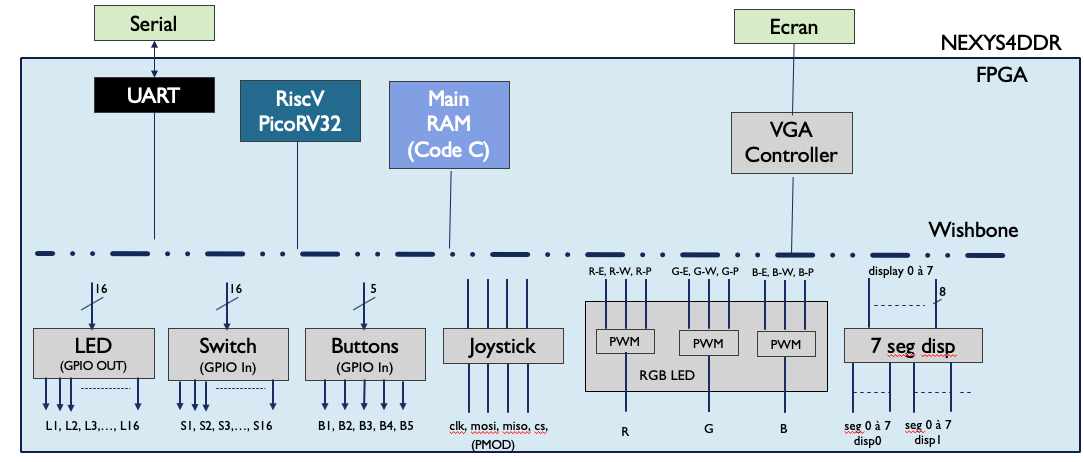
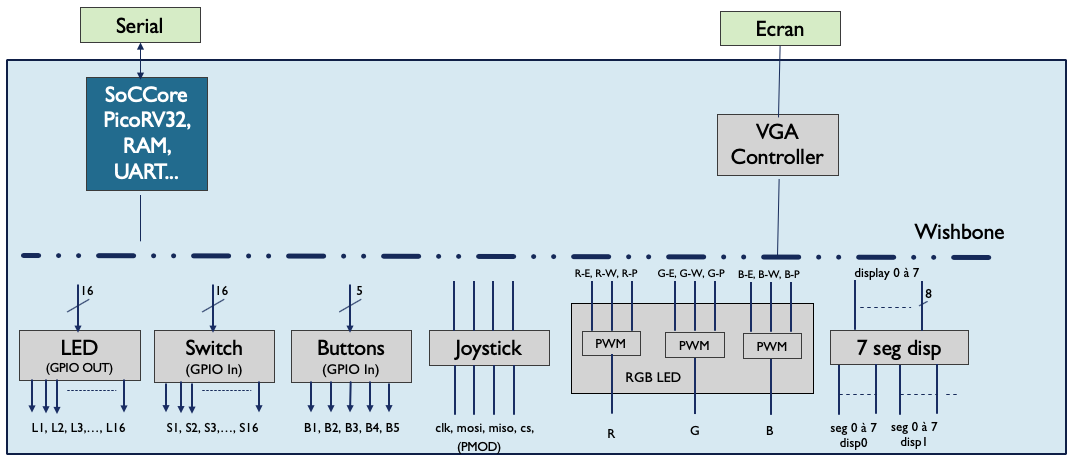
syl

diff --git a/Rapport/06_Modules.md b/Rapport/06_Modules.md
@@ -1,4 +1,318 @@
-# Description des modules
+# Description des modules:
+
+Voici ci-dessous l'architecture que nous souhaitons implémenter sur notre FPGA. Pour cela nous devons décrire l'ensemble des modules correspondant aux blocs de ce schéma:
+
+
 
 ![Architecture](./Images/Architecture.png)
+
+
+
+### SoCCore:
+
+Le module SoCCore tel que initialement proposé par Litex ressemble à ceci:
+
+
+
+![SoCCore](./Images/SoCCore.png)
+
+Après avoir installé Litex, le fichier décrivant ce module est disponible ici: "./litex/soc/integration/soc_core.py"
+
+Lors de la génération du build, nous l'instancierons en précisants les paramètres souhaités notamment le CPU de type PicoRV32. Nous verrons cela à l'étape suivante.
+
+
+
+### GPIOs (LEDs, switchs, buttons):
+
+Pour interfacer les entrées/sorties basiques tels que les LEDs simples, les switchs et les bouttons, nous utilisons des modules GPIO disponibles dans la bibliothèque de Litex: "./litex/soc/cores/gpio.py":
+
+```python
+# GPIO Input -------------------------------------------------------------------------------
+
+class GPIOIn(Module, AutoCSR):
+    def __init__(self, signal):
+        self._in = CSRStatus(len(signal))
+        self.specials += MultiReg(signal, self._in.status)
+
+# GPIO Output ------------------------------------------------------------------------------
+
+class GPIOOut(Module, AutoCSR):
+    def __init__(self, signal):
+        self._out = CSRStorage(len(signal))
+        self.comb += signal.eq(self._out.storage)
+```
+
+
+
+### LEDs RGB:
+
+La commande des LEDs RGB est constituée de trois canaux (rouge, le vert et le bleu). Nous avons donc créé un module regroupant ces trois canaux. 
+
+![RGBLed](./Images/RGBLed.png)
+
+Afin de pouvoir moduler individuellement chacun des canaux, nous avons utilisé le module PWM de Litex: "./litex/soc/cores/pwm.py"
+
+Le module se pilote via ses trois entrées Enable, Width et Period
+
+Voici notre module faisant appel aux PWM: "./module/rgbled.py"
+
+```python
+from migen import *
+from migen.genlib.cdc import MultiReg
+from litex.soc.interconnect.csr import *
+from litex.soc.cores import pwm
+
+# RGB LED ---------------------------------------------------------------------------
+class RGBLed(Module, AutoCSR):
+    def __init__(self, pads):
+        self.submodules.r = pwm.PWM(pads.r)
+        self.submodules.g = pwm.PWM(pads.g)
+        self.submodules.b = pwm.PWM(pads.b)
+```
+
+
+
+### 7 segments:
+
+Ce module permet d'interagir avec les 8 pavés de 7 segments de la NEXYS4DDR. Litex ne proposant aucune definition pour ce type de module, nous l'avons donc réalisé de la façon suivante:
+
+
+
+![7segments](./Images/7segments.png)
+
+Ce schéma fonctionnel est décrit via les fonctions de Migen, en particulier par l'usage de self.sync pour synchroniser sur les coups d'horloge de 100Mhz et de self.comb qui permet de définir les liaisons combinatoires.
+
+Ce module est disponible ici:"./module/sevensegment.py"
+
+```python
+from migen import *
+from migen.genlib.cdc import MultiReg
+
+from litex.soc.interconnect.csr import *
+
+# Seven Segment ---------------------------------------------------------------------------
+
+class SevenSegment(Module, AutoCSR):
+    def __init__(self, segment_out, digit_out):
+        
+        nb_dig = len(digit_out)
+        dgt_count = Signal(max = nb_dig)
+    
+        refresh_period = 16*10**(-3)  # refresh of 16ms (from datasheet)
+        digit_period = refresh_period/nb_dig # period for 1 digit
+        
+        dgt_tick = Signal()
+        dgt_tick_count = Signal(max = int(digit_period*100e6))
+        
+        self.displays = Array(Signal(len(segment_out)) for i in range(nb_dig))
+        
+    # CSR -----------------------------------------------------------------------------
+    
+        self._dig_0 = CSRStorage(8)
+        self._dig_1 = CSRStorage(8)
+        self._dig_2 = CSRStorage(8)
+        self._dig_3 = CSRStorage(8)
+        self._dig_4 = CSRStorage(8)
+        self._dig_5 = CSRStorage(8)
+        self._dig_6 = CSRStorage(8)
+        self._dig_7 = CSRStorage(8)
+        
+        self.comb += [
+            self.displays[0].eq(self._dig_0.storage),
+            self.displays[1].eq(self._dig_1.storage),
+            self.displays[2].eq(self._dig_2.storage),
+            self.displays[3].eq(self._dig_3.storage),
+            self.displays[4].eq(self._dig_4.storage),
+            self.displays[5].eq(self._dig_5.storage),
+            self.displays[6].eq(self._dig_6.storage),
+            self.displays[7].eq(self._dig_7.storage)
+        ]
+    
+        # # #
+        
+        self.sync += [
+            # Digit tick counter
+            If(dgt_tick_count >= int(digit_period*100e6-1),
+                dgt_tick_count.eq(0),
+                dgt_tick.eq(1)
+            ).Else(
+                dgt_tick_count.eq(dgt_tick_count + 1),
+                dgt_tick.eq(0)
+            ),
+            # Digit counter
+        If(dgt_tick,
+            If(dgt_count >= nb_dig-1,
+            dgt_count.eq(0)
+        ).Else(
+            dgt_count.eq(dgt_count + 1)
+        )
+        )
+        ]
+        
+        self.comb += [
+        # digit_out
+            digit_out.eq(~(1<<dgt_count)),
+            # segment_out
+        segment_out.eq(~self.displays[dgt_count])
+        ]
+
+```
+
+
+
+### Joystick:
+
+Le joystick est raccorder à une interface SPI. Sa documentation est disponible ici: PmodJSTK2 Manual: https://reference.digilentinc.com/_media/reference/pmod/pmodjstk2/pmodjstk2_rm.pdf
+
+Etant donné que nous utilisons un processeur, il n'est pas obligatoire de gérer le module de liaison SPI par le FPGA.
+
+Nous avons ainsi simplifié son interface en utilisant les GPIO de Litex (comme vu précédemment) et donné la gestion de la liaison SPI à notre processeur au travers du Firmware.
+
+![Joystick](./Images/Joystick.png)
+
+Ce module est disponible ici: "./module/spijoystick.py"
+
+```python
+from migen import *
+from migen.genlib.cdc import MultiReg
+from litex.soc.interconnect.csr import *
+
+#  SpiJoystick ---------------------------------------------------------------------------
+""" SpiJoystick est interfacé sur un port Pmod
+"""
+
+class SpiJoystick(Module,AutoCSR):
+	def __init__(self, pads):
+	# Clock generation -------------------------------------------------------------------------
+		self._clk = CSRStorage()
+		self.comb += pads.clk.eq(self._clk.storage)
+	# Chip Select generation -------------------------------------------------------------------
+		self._cs = CSRStorage(reset=1)
+		self.comb += pads.cs_n.eq(self._cs.storage)
+	# Master Out Slave In (MOSI) generation ----------------------------------------------------
+		self._mosi = CSRStorage()
+		self.comb += pads.mosi.eq(self._mosi.storage)
+	# Master In Slave Out (MISO) capture -------------------------------------------------------
+		self._miso = CSRStatus()
+		self.comb += self._miso.status.eq(pads.miso)
+```
+
+
+
+### VGA CONTROLER:
+
+Comme pour les autres modules, nous nous sommes appuyés sur le descriptif de la NEXYS4DDR: https://reference.digilentinc.com/reference/programmable-logic/nexys-4-ddr/reference-manual pour comprendre et implémenter le "display controler block", et en particulier les temps en référence pour définir la synchro verticale et horizontale pour un affichage en 640*480pixs:
+
+![Display](/Users/sylvain/Desktop/Projet/RISCV/RISCV/Rapport/Images/Display.png)
+
+Il à également été nécéssaire de créer une B-RAM afin d'avoir un buffer entre notre processeur et le VGA controler en lui même. Pour ce faire nous avons donc utilisé la fonction "mem = Memory(memory_width, h_rez*v_rez)" de Migen.
+
+Voici l'architecture de notre module:
+
+![VGA](./Images/VGA.png)
+
+
+
+Ce module est disponible ici: "./module/vgacontroller.py"
+
+```python
+from migen import *
+from migen.genlib.cdc import MultiReg
+
+from litex.soc.interconnect.csr import *
+
+# VGA Controller ---------------------------------------------------------------------------
+
+class VGAcontroller(Module, AutoCSR):
+    """VGA display controller
+    
+    Provides a video controller circuit to drive the sync and color signals with the correct timing
+    in order to produce a working display system.
+    """
+    def __init__(self, hs, vs, r_out, g_out, b_out):
+        h_rez = 640
+        h_startsync = 640 + 16
+        h_endsync = h_startsync + 96
+        h_max = 800
+        h_count = Signal(max = h_max)
+        
+        v_rez = 480
+        v_startsync = 480 + 10
+        v_endsync = v_startsync + 2
+        v_max = 525
+        v_count = Signal(max = v_max)
+    
+        pxl_freq = 25e6 # pixel counter frequency 25MHz
+        pxl_tick_count = Signal(max = int(100e6/pxl_freq))
+        pxl_tick = Signal()
+        
+        active = Signal()
+        
+        memory_width = len(r_out)+len(g_out)+len(b_out)
+        mem = Memory(memory_width, h_rez*v_rez)
+        self.specials += mem
+        
+        p_r = mem.get_port()
+        p_w = mem.get_port(write_capable=True)
+        self.specials += p_r, p_w
+    
+        # CSR -----------------------------------------------------------------------------
+        self._mem_adr = CSRStorage(len(p_w.adr))
+        self._mem_we = CSRStorage(len(p_w.we))
+        self._mem_data_w = CSRStorage(memory_width)
+        self._mem_data_r = CSRStatus(memory_width)
+        
+        self.comb += [
+            p_w.adr.eq(self._mem_adr.storage),
+            p_w.we.eq(self._mem_we.storage),
+            self._mem_data_r.status.eq(p_w.dat_r),
+            p_w.dat_w.eq(self._mem_data_w.storage)
+        ]
+    
+        # # #
+        
+        self.sync += [
+        # Pxl clock generation
+        If(pxl_tick_count >= (3),
+            pxl_tick_count.eq(0),
+            pxl_tick.eq(1)
+        ).Else(
+            pxl_tick_count.eq(pxl_tick_count + 1),
+            pxl_tick.eq(0)
+            ),
+        
+        # Horiontal and vertical counters
+        If(pxl_tick,
+            If(h_count >= h_max -1,
+            h_count.eq(0),
+            If(v_count >= v_max -1,
+                v_count.eq(0)
+            ).Else(
+            v_count.eq(v_count+1)
+            )
+        ).Else(
+            h_count.eq(h_count+1)
+        )
+        ),
+        
+        # Adress read sync
+        p_r.adr.eq(v_count*h_rez+h_count)
+        ]
+
+        self.comb += [
+            # h sync
+        hs.eq((h_count >= h_startsync) & (h_count < h_endsync)),
+        # v sync
+        vs.eq((v_count >= v_startsync) & (v_count < v_endsync)),
+        # display sync
+        active.eq((h_count < h_rez) & (v_count < v_rez)),
+        # red out
+        r_out.eq(active * p_r.dat_r[0:4]),
+        # green out
+        g_out.eq(active * p_r.dat_r[4:8]),
+        # blue out
+        b_out.eq(active * p_r.dat_r[8:12])
+        ]
+
+```
 

diff --git a/Rapport/00_Installation.md b/Rapport/00_Installation.md
@@ -2,17 +2,19 @@
 
 # Installation:
 
-Etape 0*: s'assurer d'avoir Python 3.5+ et l'outils de développement FPGA du vendeur (vivado). Ainsi que les drivers de la carte Nexys4-DDR.
+*Etape 0*: s'assurer d'avoir Python 3.5+ et les outils de développement FPGA du vendeur (Vivado). Ainsi que les drivers de la carte Nexys4-DDR.
 
-*Etape 1*: installation de LiteX et de ses dépendances (y compris Migen)
+*Etape 1*: installation de LiteX et de ses dépendances
 
 ```bash
 ./setup.py init install --user
 ```
 
-Nota: définir les fichiers.py comme executables (click droit / properties/ Execute)
+Nota: définir les fichiers.py comme executables :
 
-
+```bash
+chmod +x *.py
+```
 
 Etape 2*: chemin vers le cross-compilateur RISC-V
 

diff --git a/Rapport/05_Plateforme.md b/Rapport/05_Plateforme.md
@@ -6,7 +6,9 @@ Voici le fichier de Litex d'origine:
 
 https://github.com/enjoy-digital/litex/blob/master/litex/boards/platforms/nexys4ddr.py
 
-Nous avons modifié ce fichier pour principalement prendre en compte l'afficheur 7 segments, le joystick et la sortie VGA:
+Nous avons modifié ce fichier pour principalement prendre en compte l'afficheur 7 segments, le joystick, les LED RGB et la sortie VGA.
+
+A noter que le joystick est implémenter sur le port PMOD 'JB' pin 1 à 6 (cf: https://reference.digilentinc.com/reference/programmable-logic/nexys-4-ddr/reference-manual)
 
 ```python
 from litex.build.generic_platform import *

diff --git a/Rapport/08_Firmware.md b/Rapport/08_Firmware.md
@@ -1,0 +1,1 @@
+# Firmware

diff --git a/Rapport/07_Architecture.md b/Rapport/07_Architecture.md
@@ -1,0 +1,2 @@
+# Build
+
